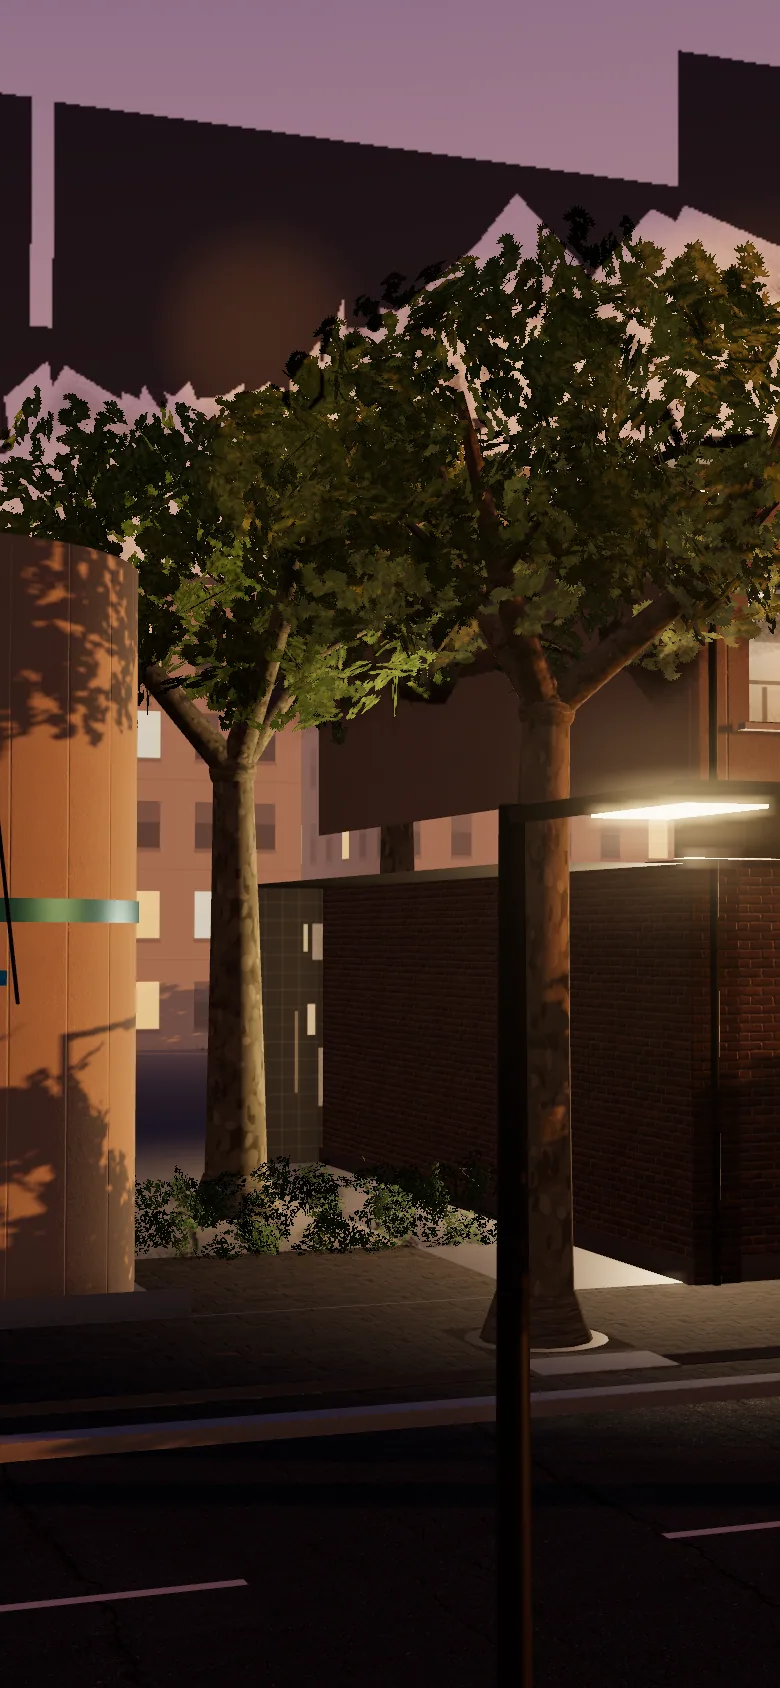
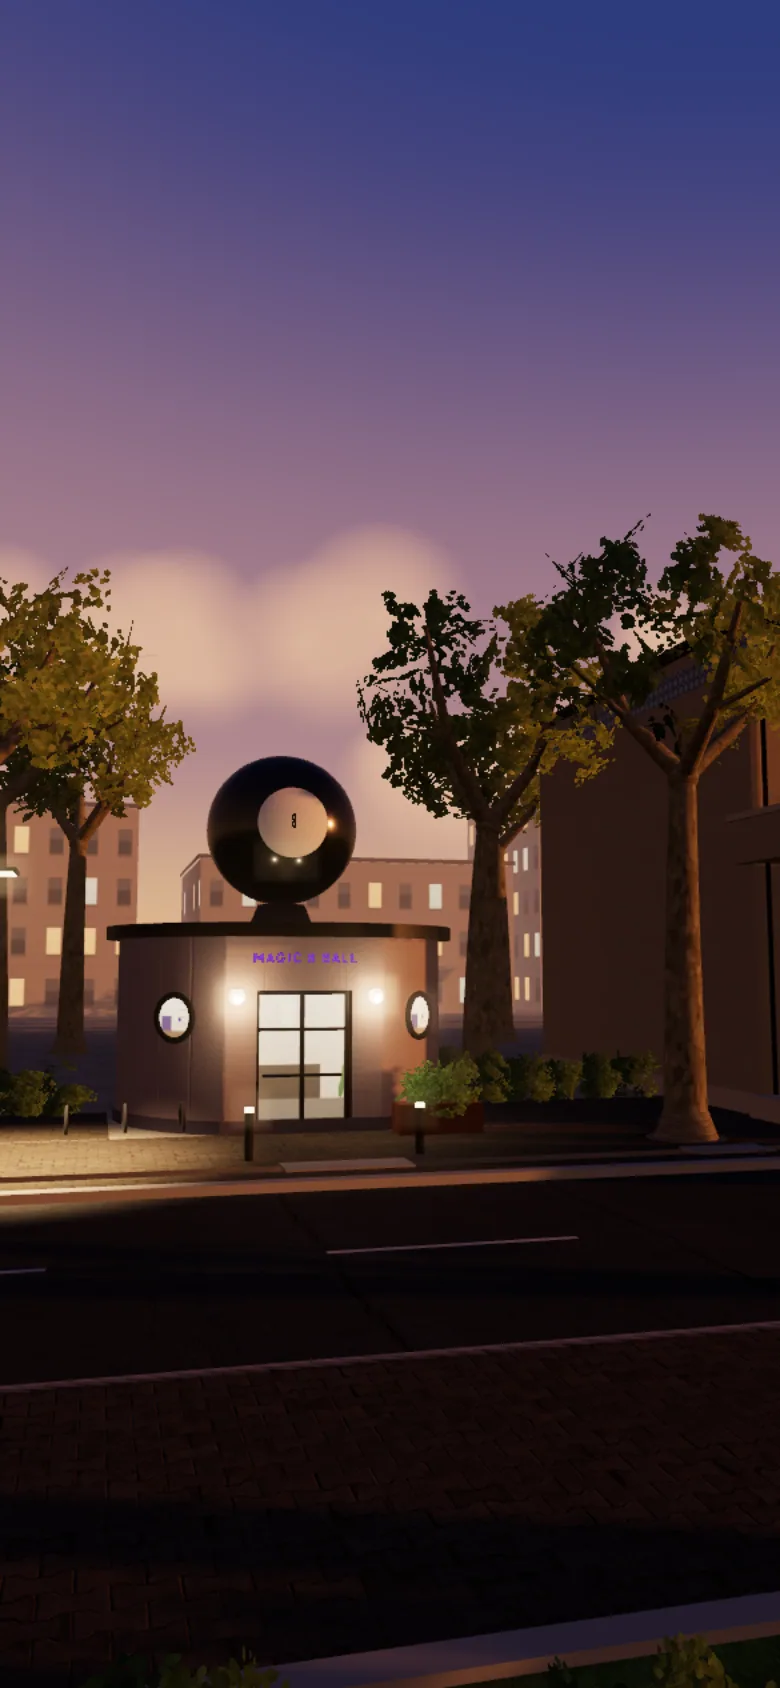
feat(street): eye height 3 m, posters from the start view

diff --git a/lib/street/scene.js b/lib/street/scene.js
@@ -40,7 +40,7 @@ const GPU_BUDGET_MS = 10;      // what a frame may cost on the GPU (60 % of a 60
 // space without the fish-eye stretch at the edges. The vertical angle follows the aspect ratio, clamped so a
 // narrow stage neither looks through a slit nor turns into sky and pavement (the hero stage is nearly square).
 const HFOV = 100;
-const EYE = 2.4;               // eye height in metres: a step above the pavement — shop fronts and signs in frame
+const EYE = 3.0;               // eye height in metres: a little above the pavement — shop fronts, signs and first floors in frame
 const vfovFor = (hfov, aspect) => THREE.MathUtils.clamp(2 * Math.atan(Math.tan(toRad(hfov) / 2) / aspect) * 180 / Math.PI, 55, 72);
 const easeInOut = t => (t < 0.5 ? 2 * t * t : 1 - Math.pow(-2 * t + 2, 2) / 2);
 const lerp = (a, b, k) => a + (b - a) * k;

diff --git a/lib/street/scene.d.ts b/lib/street/scene.d.ts
@@ -25,7 +25,7 @@ export type SceneOptions = {
   govern?: boolean;
   /** Horizontal field of view in degrees (default 100). */
   hfov?: number;
-  /** Eye height in metres (default 2.4). */
+  /** Eye height in metres (default 3). */
   eye?: number;
 };
 
